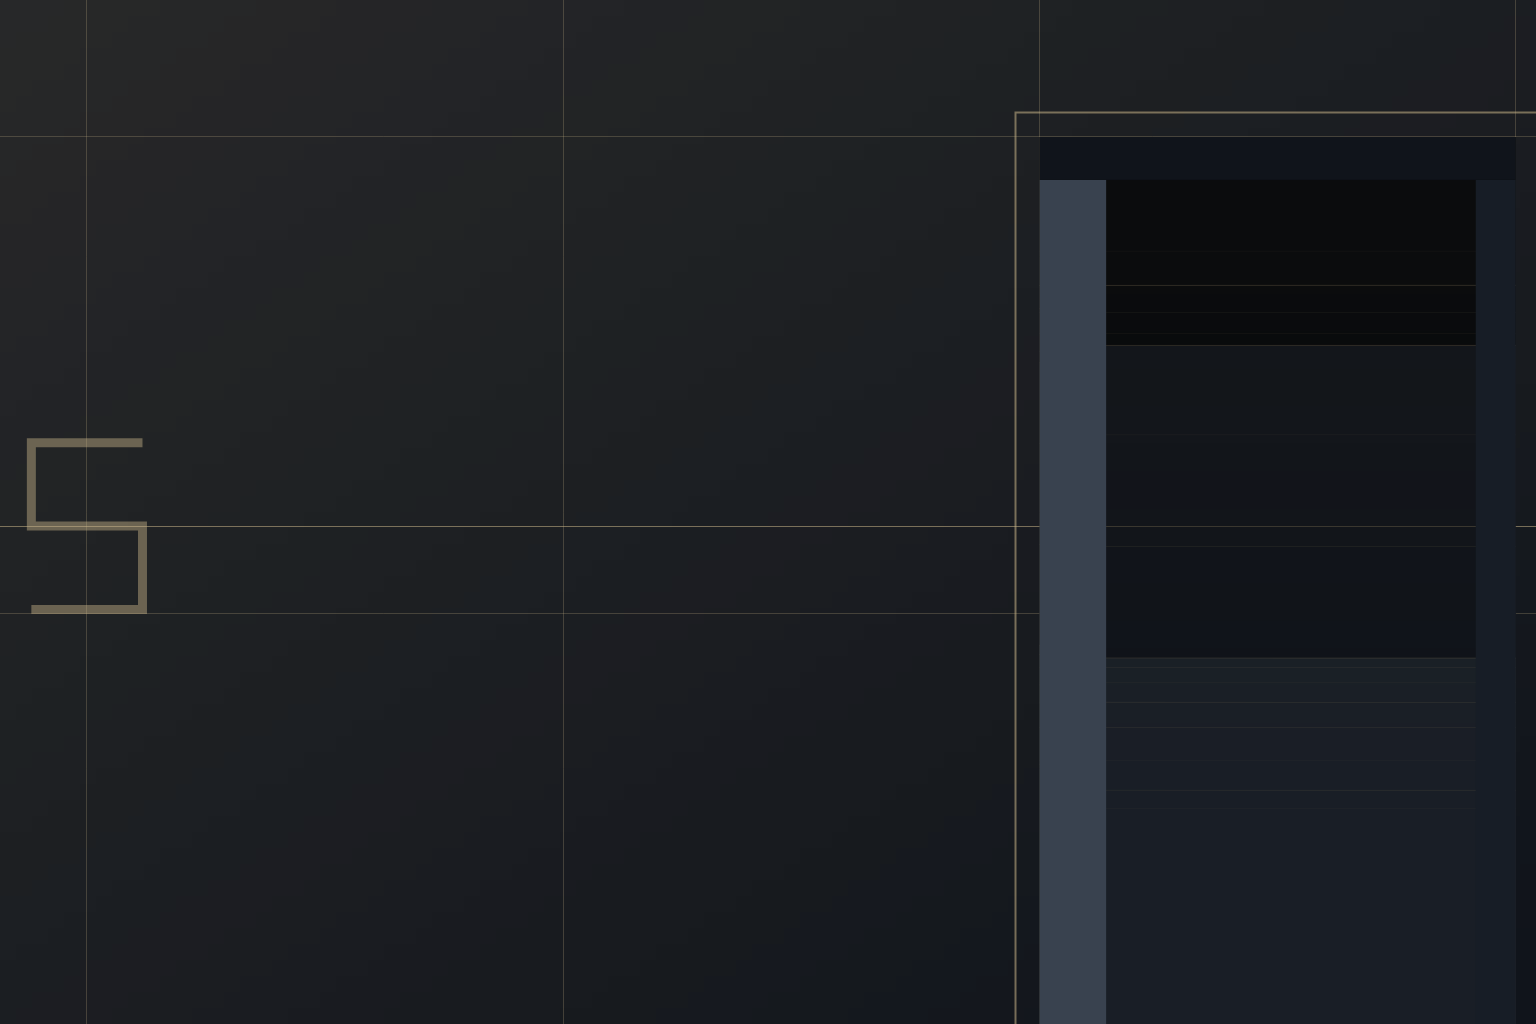
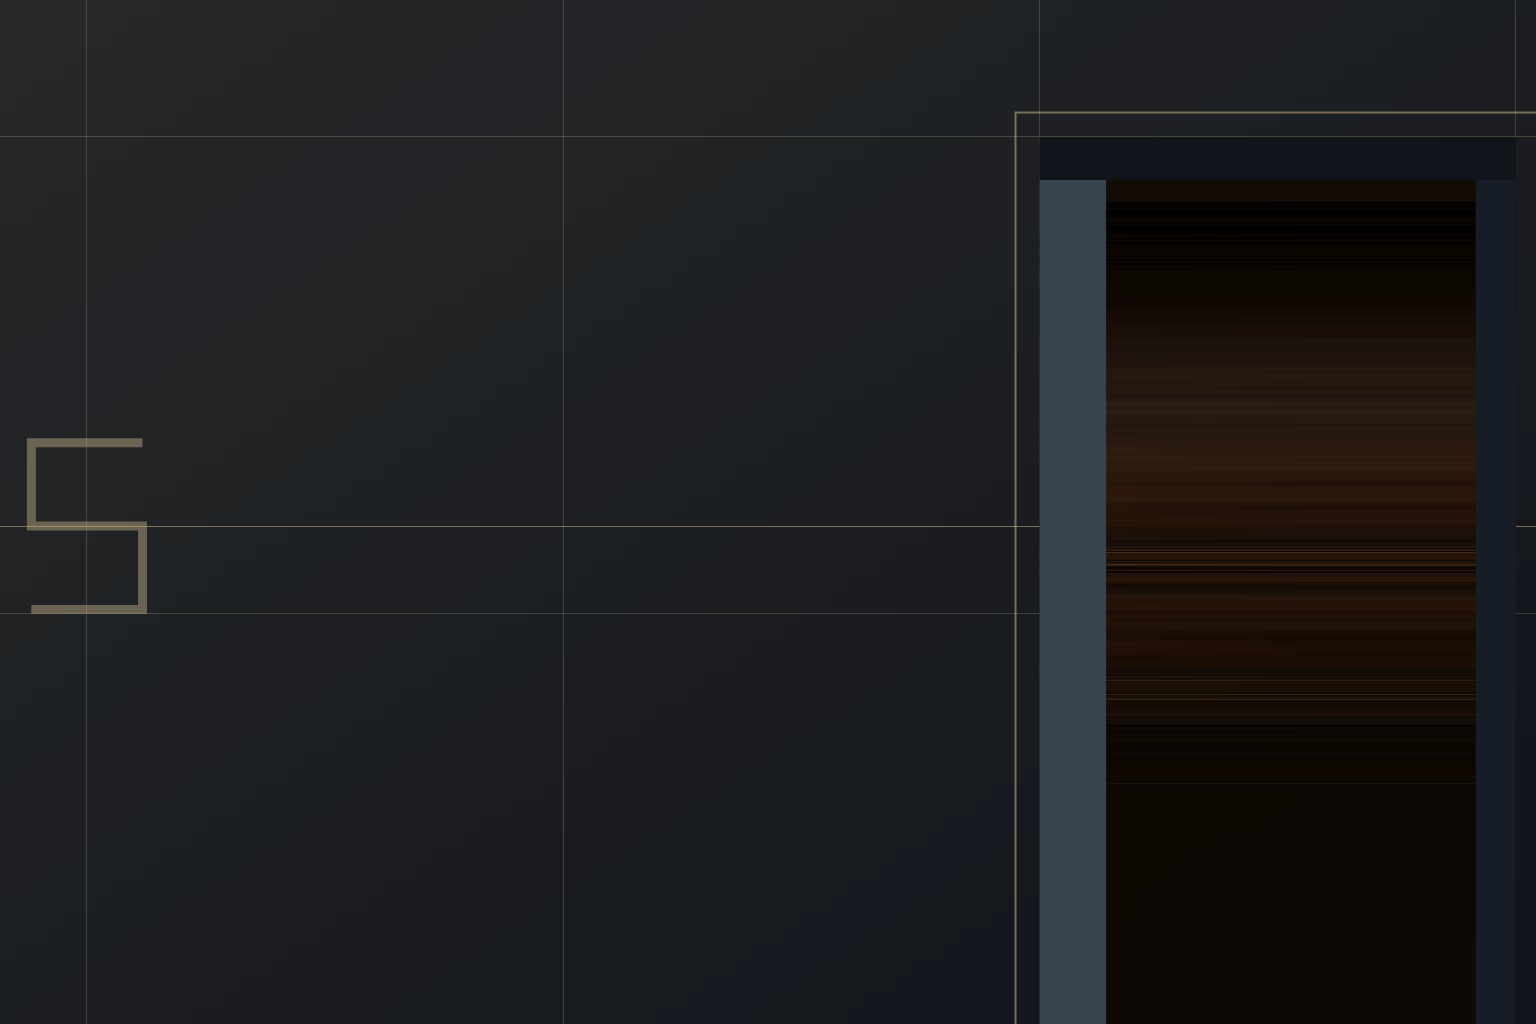
Row-26 batch: its two AFTER frames re-captured, with what changed said out loud
plan.spec re-renders that batch and byte-compares it, which is what it is for:
promoting painted walls into the buttery and the kitchen changed what shows
through the two mouths those frames are of, over exactly the doorway rects
(x 1039..1516) and nowhere else. Re-captured through the batch's own
capture.mjs, both builds as before.

It does not show WELL. The through-view fills the mouth by stretching the
destination's edge pixels, which is row 25 (d)'s open finding and which had
never had real art behind it to be visible against. The README says so, beside
the frames, because these are pictures a human is being asked to glance at and
they are not the pictures he was shown before. Row 26's own claim - the whole
doorway in frame with a hand's margin beyond its jamb - is unchanged.

Claude-Session: https://claude.ai/code/session_017fM5F7BMx42kqDX56eijgW

Changed region(s): [[0.7188, 0.625, 0.9688, 1.0], [0.7188, 0.4375, 0.9688, 0.5], [0.7188, 0.5312, 0.9688, 0.5625]]

diff --git a/design/batches/row26-gate/README.md b/design/batches/row26-gate/README.md
@@ -23,6 +23,14 @@ court. It is in frame now, and the manor walks 56 exits instead of 55.
 `01-BEFORE-hall-E.png` and `02-hall-E.png` are a facing in the same room that this row did NOT
 move, so you can see that "the passage moved" means two of its four walls and not the room.
 
+**The two AFTER frames were re-captured on 2026-08-24 and the doorways in them changed**, which is
+not this row's doing and is the only difference: the manor production run promoted painted walls
+into the buttery and the kitchen, so what shows through those two mouths is a painting now instead
+of the grid. It does not show WELL — the through-view fills the mouth by stretching the
+destination's edge pixels, which is exactly the defect row 25 (d) was allocated for and which had
+never had real art behind it to be visible against. Row 26's own claim — the whole doorway is in
+frame with a hand's margin beyond its jamb — is what these frames are of, and it is unchanged.
+
 ## What changed, in one sentence
 
 The standpoint law used to answer one question — how far back from a wall do you stand — and it
